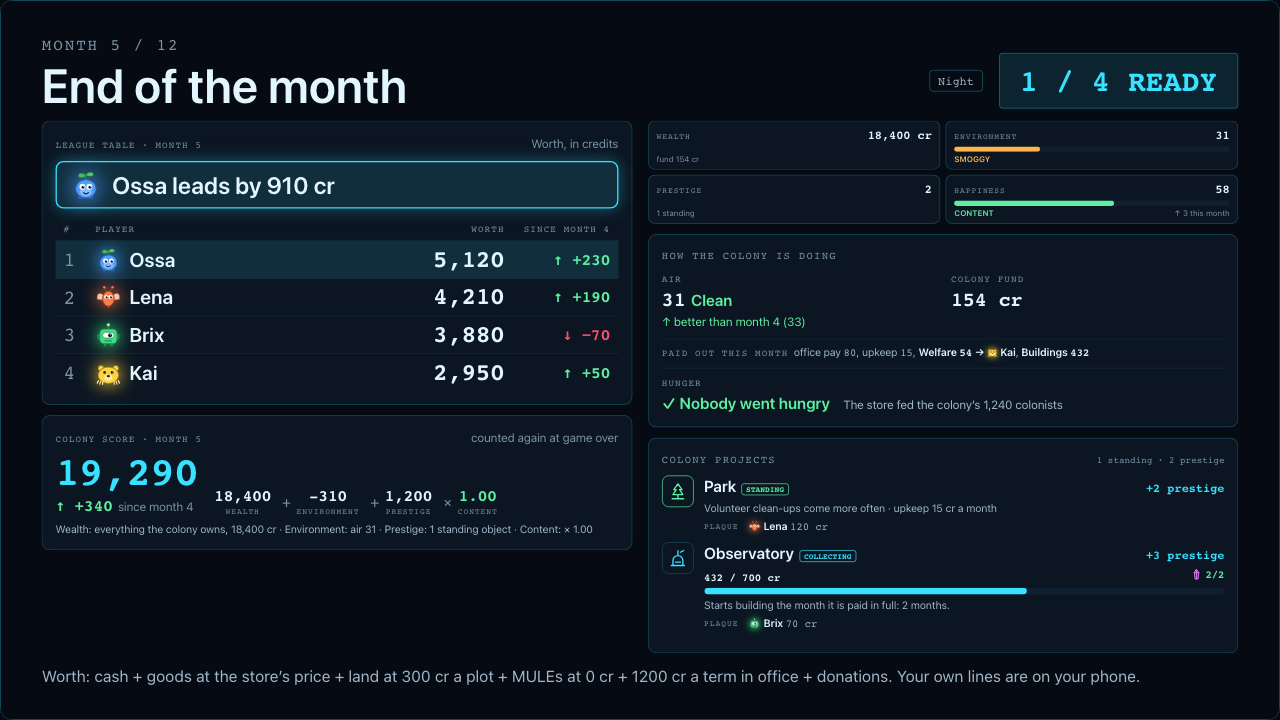
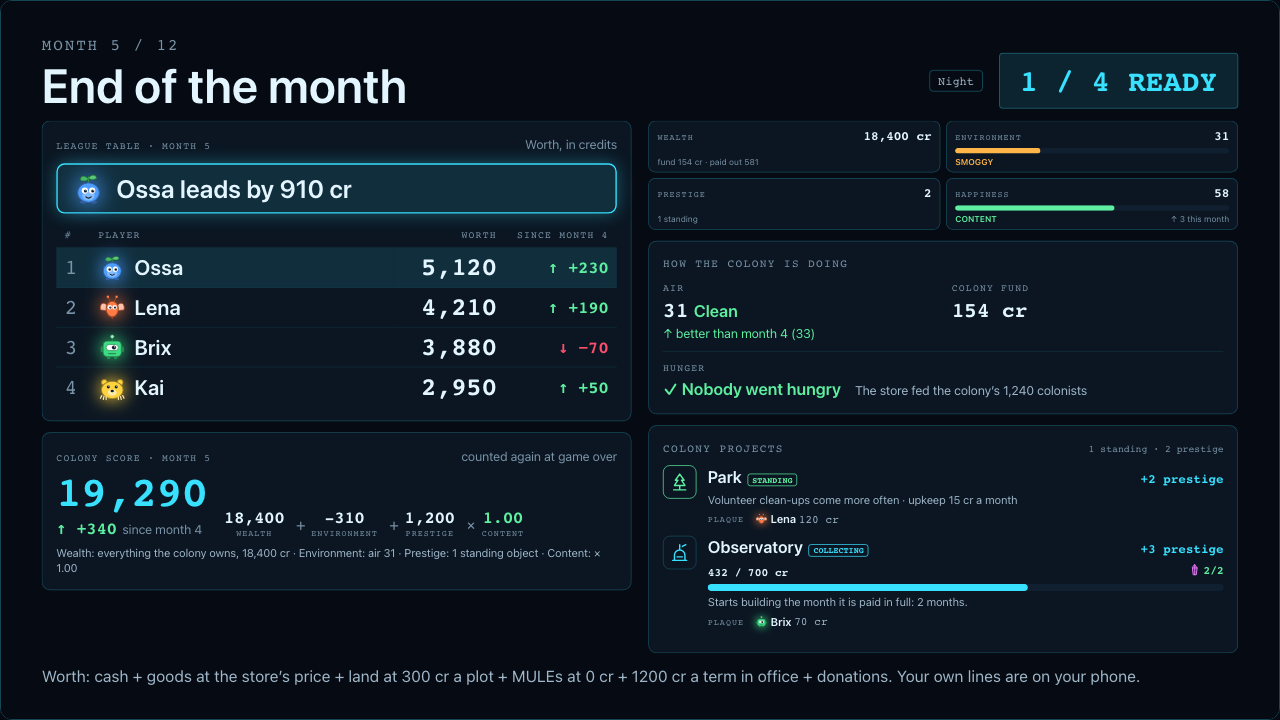
chore(mocks): politics P15, the TV shows the total only
PM ruling 7 Nov, on the measured 0.663 vs 0.701: the TV month end shows only
the paid-out total, in the Wealth gauge's note ("fund 154 cr · paid out
581"), at every seat count. The full line, with Welfare's recipient, stays on
the phones. The seat cutoff is gone; P15 shows 4 and 6 seats.

Changed region(s): [[0.0312, 0.1833, 0.9688, 0.8861], [0.4375, 0.4583, 0.5, 0.55], [0.9062, 0.7639, 0.9688, 0.7944]]

diff --git a/design/mocks/politics-budget/src/App.tsx b/design/mocks/politics-budget/src/App.tsx
@@ -9,7 +9,7 @@ import { TableApp } from '../../../../apps/web/src/table/TableApp';
 import { HUB_SLOTS } from '../../../../apps/web/src/phone/hub/today';
 import { apply, boardClient, clientFor, gameFor, HOLDER, SCENES, SEATS, tableOf, viewFor, type Intent, type Scene, type SceneId, type Seat, type Shares } from './fixture';
 import { Graft } from './Graft';
-import { FundLines, FundPaidNote, fundOnTv } from './proposed/FundLines';
+import { FundLines, FundPaidNote } from './proposed/FundLines';
 import type { Variant } from './proposed/GovernorBudget';
 import { TvBudgetLine, TvOverruleCall } from './proposed/TvBudgetLine';
 import { TvOverrule } from './proposed/TvOverrule';
@@ -33,8 +33,8 @@ const DECISIONS: [string, string][] = [
   ['P13', 'The ready bar: “Cast my vote” until you cast, then “Waiting for the overrule vote”; in the reveal, “Continue” (AM-5).'],
   ['P14', 'The TV’s planning header gains the budget line under the promise line. The call’s banner heads the side column, above who the table waits for: in the header it shrank the body to 0.763 (TV-FIT), in the side the news gives way and it stays at 0.896.'],
   ['P14', 'The overrule panel is TvCouncil’s frame. Its reveal bar is all the table’s votes with the mark at “needed”, not the half-way mark the law’s bar uses: the rules differ.'],
-  ['P15', 'The month end’s colony panel gains one line, “Paid out this month”: office pay, upkeep, Welfare 54 → Kai, Buildings 432. Out only. Every phone keeps it, and the TV below five seats.'],
-  ['P15', 'From five seats the TV drops that line: the total alone goes in the Wealth gauge’s note, “fund 154 cr · paid out 581” (PM ruling, TV-FIT’s floor).'],
+  ['P15', 'On the phone the colony panel gains one line, “Paid out this month”: office pay, upkeep, Welfare 54 → Kai, Buildings 432. Out only.'],
+  ['P15', 'The TV shows the total only, at every seat count (PM ruling 7 Nov, on the measured 0.663 vs 0.701): “fund 154 cr · paid out 581” in the Wealth gauge’s note.'],
 ];
 
 interface StateDef {
@@ -42,7 +42,7 @@ interface StateDef {
   label: string;
   scene: SceneId;
   seed?: Shares;
-  /** Seats at the table for this state (4 unless set): P15's five-seat form. */
+  /** Seats at the table for this state (4 unless set): P15's six-seat view, to show the total fits there too. */
   seats?: number;
 }
 interface ScreenDef {
@@ -101,10 +101,10 @@ const SCREENS: ScreenDef[] = [
     ],
   },
   {
-    id: 'p15', title: 'P15 · the month end: what the fund paid out', graft: 'MonthEnd.tsx ColonyPanel (FundLines); from 5 seats on the TV, Colony.tsx ColonyGauges’ Wealth note (FundPaidNote)', kind: 'monthEnd', seats: ['lena'],
+    id: 'p15', title: 'P15 · the month end: what the fund paid out', graft: 'phone: MonthEnd.tsx ColonyPanel (FundLines); TV: Colony.tsx ColonyGauges’ Wealth note (FundPaidNote)', kind: 'monthEnd', seats: ['lena'],
     states: [
-      { id: 'paid', label: '4 seats: the full line', scene: 'monthEnd' },
-      { id: 'five', label: '5 seats: the TV shows the total only', scene: 'monthEnd', seats: 5 },
+      { id: 'paid', label: '4 seats: phone line, TV total', scene: 'monthEnd' },
+      { id: 'six', label: '6 seats: the same, at the floor’s seat count', scene: 'monthEnd', seats: 6 },
     ],
   },
 ];
@@ -140,7 +140,7 @@ function Phone({ seat, scene, w, h, variant = 'a', desk, seed, send, label }: { 
                   <>
                     <Results />
                     {!TODAY && <Graft into='[data-testid="colony-panel"] > div' className="col-span-3">
-                      <FundLines view={view} density="compact" />
+                      <FundLines view={view} />
                     </Graft>}
                   </>
                 ) : (
@@ -166,8 +166,8 @@ function Tv({ scene }: { scene: Scene }) {
     <figure className="flex flex-col gap-1" data-testid="tv-1280">
       <figcaption className="label-caps text-[10px]! text-ink-2">1280 × 720 · the TV</figcaption>
       {/* MOCK: TableApp's root is h-dvh (the TV's whole window); in this frame it is the frame's height, so Scaled draws 1:1. */}
-      {/* MOCK: from five seats the Wealth gauge's own note is hidden and FundPaidNote drawn in its place (the build changes ColonyGauges' note). */}
-      <div className={cx('overflow-hidden rounded-panel border border-holo-line [&>div]:h-full!', scene.moment === 'monthEnd' && !TODAY && fundOnTv(game) === 'total' && '[&_[data-testid=gauge-wealth]_span.truncate]:hidden')} style={{ width: 1280, height: 720 }} data-graft-scope data-frame="tv">
+      {/* MOCK: at the month end the Wealth gauge's own note is hidden and FundPaidNote drawn in its place (the build changes ColonyGauges' note). */}
+      <div className={cx('overflow-hidden rounded-panel border border-holo-line [&>div]:h-full!', scene.moment === 'monthEnd' && !TODAY && '[&_[data-testid=gauge-wealth]_span.truncate]:hidden')} style={{ width: 1280, height: 720 }} data-graft-scope data-frame="tv">
         <ClientProvider client={client}>
           {overrule ? (
             <TvOverrule game={game} />
@@ -175,15 +175,9 @@ function Tv({ scene }: { scene: Scene }) {
             <>
               <TableApp room="MULE" />
               {TODAY ? null : scene.moment === 'monthEnd' ? (
-                fundOnTv(game) === 'line' ? (
-                  <Graft at='[data-testid="colony-fund"]' className="col-span-2">
-                    <FundLines view={game} density="tv" />
-                  </Graft>
-                ) : (
-                  <Graft at='[data-testid="gauge-wealth"] span.truncate' className="min-w-0 truncate">
-                    <FundPaidNote view={game} />
-                  </Graft>
-                )
+                <Graft at='[data-testid="gauge-wealth"] span.truncate' className="min-w-0 truncate">
+                  <FundPaidNote view={game} />
+                </Graft>
               ) : (
                 <>
                   <Graft at='[data-testid="tv-governor-promise"]'>

diff --git a/design/mocks/politics-budget/src/proposed/FundLines.tsx b/design/mocks/politics-budget/src/proposed/FundLines.tsx
@@ -5,30 +5,25 @@ import { Fragment } from 'react';
 import { fmt, toSlot } from '../../../../../apps/web/src/game/derive';
 
 /*
- * P15 · what the fund paid out this month, at the month end (moment 5), on the TV and on a phone with no TV. GRAFT
- * TARGET: apps/web/src/components/MonthEnd.tsx, ColonyPanel (WS4): on the TV one full-width line right under the Air and
- * Colony fund blocks; on the phone (compact) the panel's last row, across its three columns. The numbers are
- * ColonyView.ledger's out and ColonyView.welfare (S5-C8); month-end.ts's colonyReport gains them.
+ * P15 · what the fund paid out this month, at the month end (moment 5).
+ *
+ * The phone (a table with no TV, where the colony panel is on the phone): FundLines, the full line. GRAFT TARGET:
+ * apps/web/src/components/MonthEnd.tsx, ColonyPanel (WS4), compact: the panel's last row, across its three columns. The
+ * numbers are ColonyView.ledger's out and ColonyView.welfare (S5-C8); month-end.ts's colonyReport gains them.
  *
  * Out only, in the spec's list: office pay, upkeep, Welfare and whom it went to, buildings. The balance beside it is the
  * fund after them. Security is after RC and has no place here.
  *
- * PM ruling (TV-FIT's 0.7 floor): every phone keeps the full line, and so does the TV below five seats. From five seats
- * the TV drops it; only the total shows, in the Wealth gauge's note: "fund 154 cr · paid out 581" (FundPaidNote). GRAFT
- * TARGET for that one: apps/web/src/components/Colony.tsx, ColonyGauges, the Wealth gauge's `note` at size 'tv' in the
- * month end. The phone's and the TV's gauges in every other phase keep "fund N cr".
+ * The TV: the TV shows the total only, at every seat count (PM ruling 7 Nov, on the measured 0.663 vs 0.701): the full
+ * line took the month end under TV-FIT's 0.7 floor, the total in the Wealth gauge's note costs nothing. FundPaidNote,
+ * "fund 154 cr · paid out 581". GRAFT TARGET: apps/web/src/components/Colony.tsx, ColonyGauges, the Wealth gauge's `note`
+ * at size 'tv' in the month end. The gauges in every other phase, and on the phone, keep "fund N cr".
  */
-
-/** From this many seats the TV's month end shows the total only (PM ruling). */
-export const FUND_LINE_SEATS_MAX = 4;
-
-/** Which form the TV's month end uses: the full line, or the total in the Wealth gauge's note. */
-export const fundOnTv = (view: Pick<MuleView, 'players'>): 'line' | 'total' => (view.players.length > FUND_LINE_SEATS_MAX ? 'total' : 'line');
 
 /** What the fund paid out this month, in all: the ledger's out lines summed. */
 export const paidOut = (view: Pick<MuleView, 'colony'>) => Object.values(view.colony?.ledger?.out ?? {}).reduce((n, v) => n + (v ?? 0), 0);
 
-/** The five-seat TV's Wealth note: "fund 154 cr · paid out 581". */
+/** The TV month end's Wealth note: "fund 154 cr · paid out 581". */
 export function FundPaidNote({ view }: { view: MuleView }) {
   if (!view.colony?.ledger) return null;
   return (
@@ -41,16 +36,16 @@ export function FundPaidNote({ view }: { view: MuleView }) {
 const OUT_ORDER: FundLine[] = ['officePay', 'upkeep', 'repair', 'strikePay', 'welfare', 'project'];
 const OUT_NAME: Partial<Record<FundLine, string>> = { officePay: 'office pay', upkeep: 'upkeep', repair: 'repairs', strikePay: 'strike pay', welfare: 'Welfare', project: 'Buildings' };
 
-export function FundLines({ view, density }: { view: MuleView; density: 'tv' | 'compact' }) {
+/** The phone's full line: "Paid out this month: office pay 80, upkeep 15, Welfare 54 → Kai, Buildings 432". */
+export function FundLines({ view }: { view: MuleView }) {
   const ledger = view.colony?.ledger;
   if (!ledger) return null;
-  const tv = density === 'tv';
   const welfare = view.colony?.welfare?.month === ledger.month ? view.colony.welfare : null;
   const to = welfare && view.players.find((p) => p.id === welfare.to);
   const outs = OUT_ORDER.filter((k) => (ledger.out[k] ?? 0) > 0);
   return (
-    <p className={cx('min-w-0 text-ink-2', tv ? 'col-span-2 border-t border-holo-faint pt-2 text-base leading-snug' : 'col-span-3 border-t border-holo-faint pt-1 text-[11px] leading-tight')} data-testid="fund-lines">
-      <span className={cx('label-caps mr-2', tv ? 'text-sm!' : 'text-[10px]!')}>Paid out this month</span>
+    <p className="col-span-3 min-w-0 border-t border-holo-faint pt-1 text-[11px] leading-tight text-ink-2" data-testid="fund-lines">
+      <span className="label-caps mr-2 text-[10px]!">Paid out this month</span>
       {outs.map((k, i) => (
         <Fragment key={k}>
           {i > 0 && ', '}
@@ -58,7 +53,7 @@ export function FundLines({ view, density }: { view: MuleView; density: 'tv' | '
             {OUT_NAME[k]} <span data-num className="font-mono">{fmt(ledger.out[k] ?? 0)}</span>
             {k === 'welfare' && to && (
               <>
-                {' '}→ <PlayerMark slot={toSlot(to.slot)} species={to.species} size={tv ? 16 : 11} label={to.name} className="inline-block align-[-0.15em]" /> {to.name}
+                {' '}→ <PlayerMark slot={toSlot(to.slot)} species={to.species} size={11} label={to.name} className="inline-block align-[-0.15em]" /> {to.name}
               </>
             )}
           </span>

diff --git a/design/mocks/politics-budget/src/fixture.ts b/design/mocks/politics-budget/src/fixture.ts
@@ -83,7 +83,7 @@ const BASE_PLAYERS: PlayerView[] = [
 ];
 
 /**
- * ?seats=5 or ?seats=6 (?six is 6) seats one or two more AI players: P15's five-seat form, and TV-FIT's floor measured
+ * ?seats=5 or ?seats=6 (?six is 6) seats one or two more AI players: P15's six-seat view, and TV-FIT's floor measured
  * at five and six seats (PM ruling, 6 Nov). The extra seats weigh 0 votes, so the overrule's numbers stay "5 of 9".
  */
 const EXTRA = [
